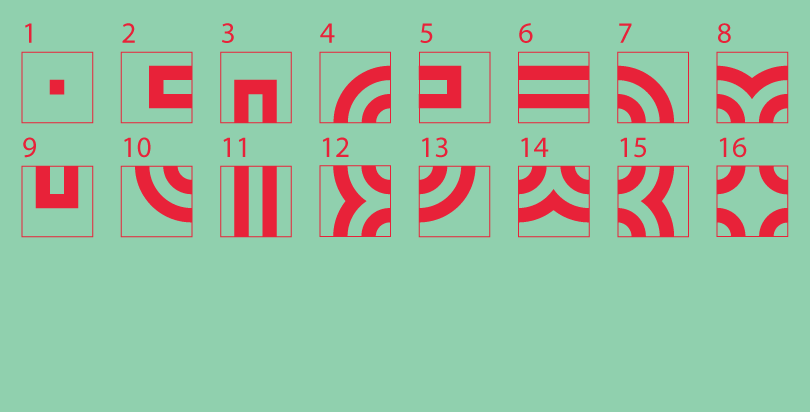
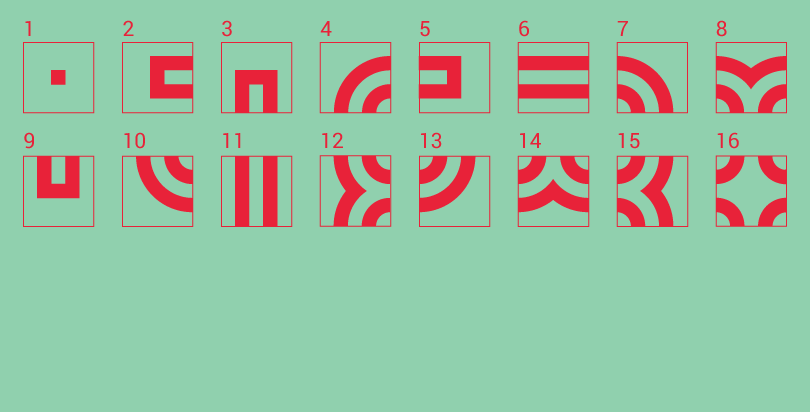
integro pantalla diseño procedural.dzoara

Changed region(s): [[0.2778, 0.0583, 0.9877, 0.5825], [0.0, 0.0583, 0.2469, 0.5825]]

diff --git a/index.html b/index.html
@@ -68,6 +68,12 @@
 			</div>
 
 			<div id="diseno_procedural" class="pantallas">
+				<img src="img/back3.png">
+				<div id="logica_juego">
+					<span>16 módulos y algortimo con 16 reglas:</span>
+					<p>(1) sin conexiones, (2) conexión a la derecha, (3) conexión debajo, (4) conexiones arriba e izquierda, (5) conexión a la izquierda, (6) conexiones izquierda y derecha, (7) conexiones izquierda y debajo, (8) conexiones izquierda, derecha y debajo, (9) conexión arriba, (10) conexiones arriba y derecha, (11) conexiones arriba y debajo, (12) conexiones arriba, derecha y debajo, (13) conexiones arriba e izquierda, (14) conexiones arriba, izquierda y derecha, (15) conexiones arriba, debajo e izquierda, (16) conexiones arriba, derecha, debajo e izquierda.</p>
+					<p>Algortimo inspirado en el libro Diseño Generativo, autores: Hartmut Bohnacker, Benedikt Groß, Julia Laub, Claudius Lazzeroni (editor) Librerias de Sintesis de Audio para Javascript timbre.js y Audio MIDI soundfont.js.</p>
+				</div>
 			</div>
 
 			<img id="onOffGrid" class="boton" src="img/b_ret_1.png" click="img/b_ret_2.png" out="img/b_ret_1.png" />

diff --git a/css/trail.css b/css/trail.css
@@ -84,8 +84,24 @@ body {
 	width: 350px;
 	height: 95px;
 }
-
-
+#logica_juego {
+	position: absolute;
+	top: 239px;
+	left: 25px;
+	width: 765px;
+	height: 80px;
+	font-family: 'Roboto', sans-serif;
+	font-weight: 400;
+	font-size: 13px;
+	color: #E82239;
+}
+	#logica_juego span {
+		font-size: 18px;
+	}
+	#logica_juego p {
+		margin-bottom: 5px;
+			margin-top: 3px;
+	}
 canvas {
 	position: absolute;
 }
